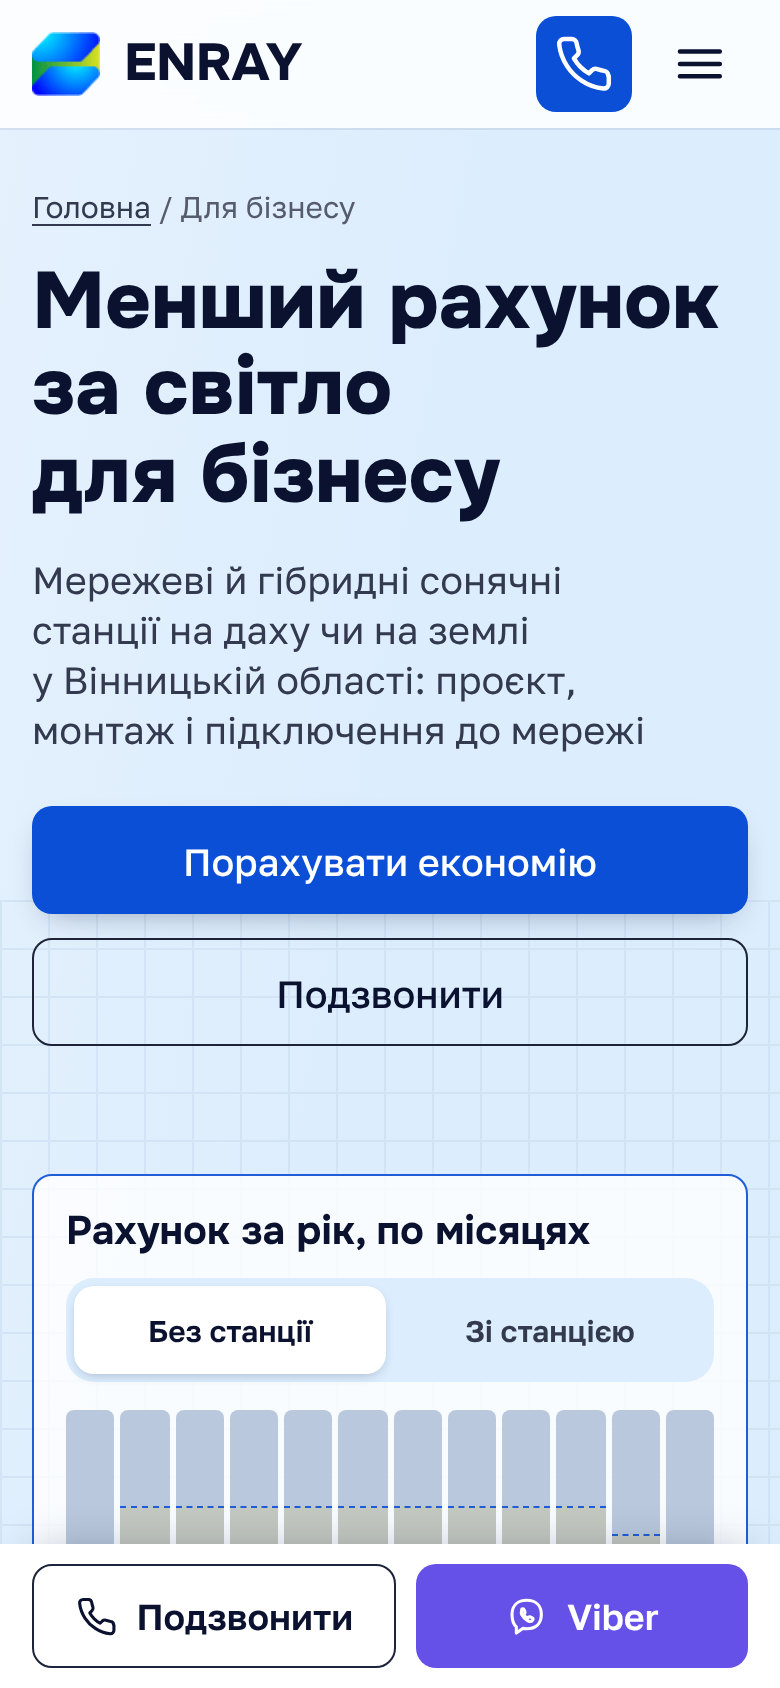
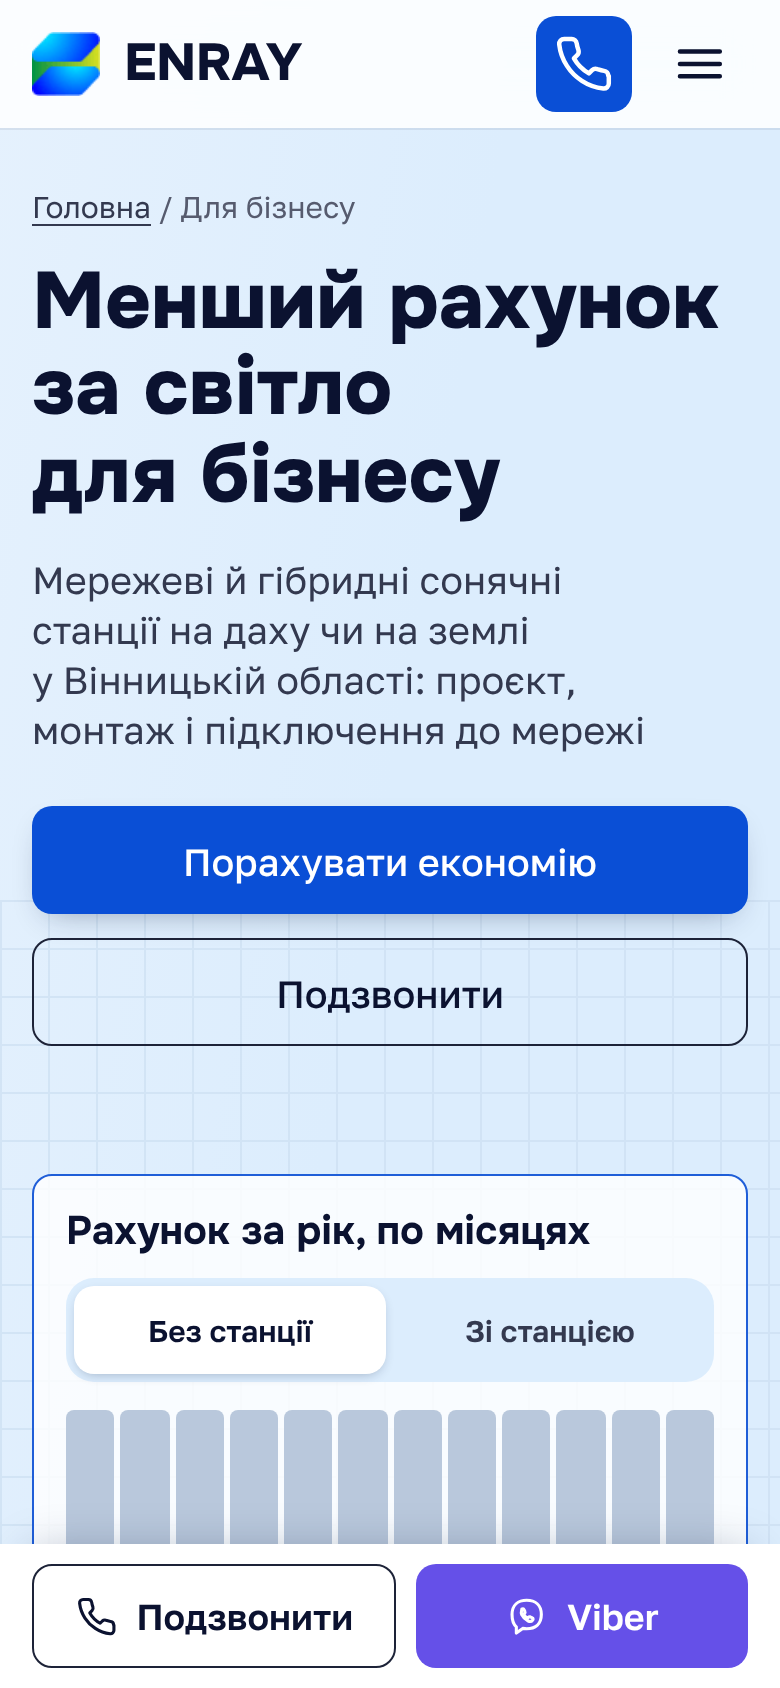
Remove station-share ghost, fix legend swatch and example tags on Бізнес
Claude-Session: https://claude.ai/code/session_01KGfZvnn7nUXhb1RoE8ibfu

Changed region(s): [[0.1538, 0.8934, 0.8308, 0.9242]]

diff --git a/enray/assets/js/scenario.js b/enray/assets/js/scenario.js
@@ -98,7 +98,7 @@
         var col = document.createElement('span');
         col.className = 'bcol';
         col.style.setProperty('--i', m);
-        col.innerHTML = '<span class="bcol-ghost"></span><span class="bcol-sun"></span>';
+        col.innerHTML = '<span class="bcol-sun"></span>';
         box.appendChild(col);
       }
       var cap = document.createElement('span');
@@ -126,7 +126,6 @@
       for (var i = 0; i < 12; i++) {
         var p = Math.min(100, r.months[i].save / r.bill * 100);
         box.children[i].style.setProperty('--sun', (on ? p : 0) + '%');
-        box.children[i].style.setProperty('--ghost', (on ? 0 : p) + '%');
       }
       box.style.setProperty('--cap', (r.share * 100) + '%');
       box.classList.toggle('is-on', on);
@@ -152,13 +151,14 @@
         ? 'За рік <b>' + fmt.format(round(r.bill * 12, 1000)) + ' грн</b> за електроенергію, кожен місяць повністю з мережі.'
         : 'Станція закриває <b>≈ ' + fmt.format(round(r.save, 1000)) + ' грн</b> за рік' +
           (rg ? ': ' + rg + ' — всю денну частину споживання, взимку менше.' : ', найбільше влітку.');
-      var parts = [
-        'рахунок ' + fmt.format(r.bill) + ' грн/міс' + (mine.bill ? '' : ' (приклад)'),
-        'тариф ' + String(r.tariff).replace('.', ',') + ' грн/кВт·год' + (mine.tariff ? '' : ' (приклад)'),
-        'станція ' + r.kw + ' кВт' + (mine.kw ? '' : ' (приклад)'),
-        '≈ ' + Math.round(r.share * 100) + '% споживання вдень' + (mine.share ? '' : ' (приклад)')
-      ];
       var any = mine.bill || mine.tariff || mine.kw || mine.share;
+      var tag = function (own) { return any && !own ? ' (приклад)' : ''; };
+      var parts = [
+        'рахунок ' + fmt.format(r.bill) + ' грн/міс' + tag(mine.bill),
+        'тариф ' + String(r.tariff).replace('.', ',') + ' грн/кВт·год' + tag(mine.tariff),
+        'станція ' + r.kw + ' кВт' + tag(mine.kw),
+        '≈ ' + Math.round(r.share * 100) + '% споживання вдень' + tag(mine.share)
+      ];
       el('bill-note').textContent = (any ? 'Розрахунок: ' : 'Приклад, ілюстративно: ') + parts.join(', ') + '. Змініть дані в калькуляторі нижче.';
       document.querySelector('#bill-table tbody').innerHTML = r.months.map(function (x, i) {
         return '<tr><td>' + MONTHS[i] + '</td><td>' + fmt.format(round(r.bill, 10)) + '</td><td>' + fmt.format(round(r.bill - x.save, 10)) + '</td></tr>';

diff --git a/enray/assets/css/scenario.css b/enray/assets/css/scenario.css
@@ -190,20 +190,14 @@
   .seg--share { width: 100%; } .seg--share label { flex: 1; } .seg--share span { justify-content: center; width: 100%; padding: 0 8px; }
 }
 
-/* Бізнес: рівень денного споживання, тінь частки станції, міні-графік */
+/* Бізнес: рівень денного споживання, міні-графік */
 .bill-cols { position: relative; }
-.bcol-ghost {
-  position: absolute; left: 0; right: 0; bottom: 0; height: var(--ghost, 0%);
-  border-top: 1.5px dashed var(--cobalt-line); background: rgba(244, 197, 66, .18);
-  transition: height .55s cubic-bezier(.16,1,.3,1); transition-delay: calc(var(--i, 0) * 35ms);
-}
 .cap-line {
   position: absolute; left: 0; right: 0; bottom: var(--cap, 60%); height: 0;
   border-top: 2px dashed var(--cobalt-line); opacity: 0; transition: opacity .4s; pointer-events: none;
 }
 .bill-cols.is-on .cap-line { opacity: 1; }
-.no-motion .bcol-ghost { transition: none; }
-.sw--cap { background: none; border-top: 2px dashed var(--cobalt-line); height: 0; width: 18px; border-radius: 0; }
+.legend .sw--cap { width: 20px; height: 2px; border-radius: 0; background: repeating-linear-gradient(90deg, var(--cobalt-line) 0 5px, transparent 5px 8px); }
 .bill-scale span::before { content: attr(data-s); display: none; }
 .bill-mini { margin: 12px 0 14px; }
 .bill-cols--mini { height: 72px; gap: 4px; }
